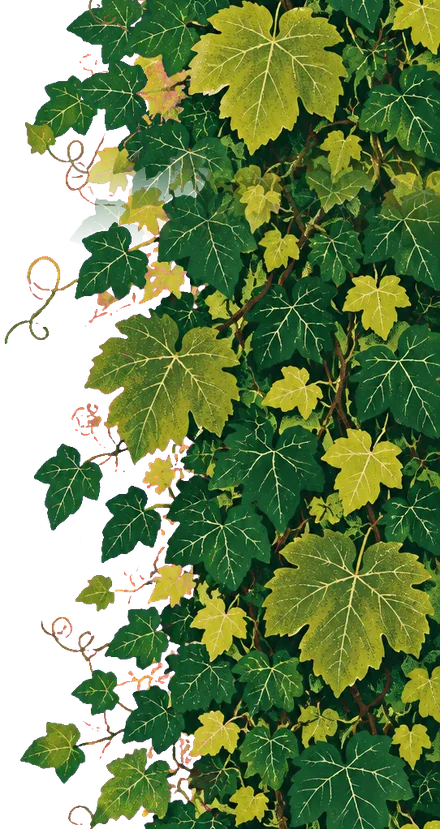
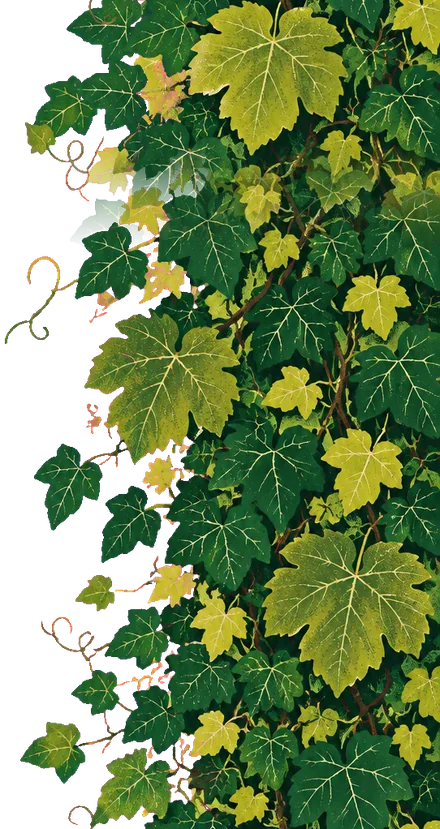
Site: açılış hemen başlar, sarmaşık kemeri ve yumuşak bitiş
- Ana sayfa: açılış, sahne ekrana girer girmez yeni (yavaş) hızında başlar;
  telefonda ilk ekran artık boş gelmiyor.
- Masaüstünde sarkan sarmaşık, sağ kenardaki şeridin tepesinden sola doğru
  uzanır; başlığın yanındaki boşluğu doldurur, şeritle tek parça durur.
- Şerit takvimin sonundan biraz ileri uzar ve yavaşça eriyerek biter.
- Telefonda sarkan sarmaşık daha dar ve sağda; başlık yazısının üstüne
  binmiyor.
- İki görsel yeniden ayıklandı: mordan kalan pembe benekler temizlendi,
  ince saplar ve kıvrımlar korundu.

diff --git a/api/mevsim.js b/api/mevsim.js
@@ -109,7 +109,7 @@ ${DARK('body.paper::before{display:none}')}
 @property --grow{syntax:'<length>';inherits:false;initial-value:0px}
 .cal{position:relative}
 .ivy{display:none}
-.ivy-top{position:absolute;top:-4px;right:-16px;width:min(82vw,380px);height:auto;pointer-events:none;z-index:0;-webkit-mask-image:linear-gradient(to bottom,#000 calc(var(--grow) - 90px),transparent var(--grow));mask-image:linear-gradient(to bottom,#000 calc(var(--grow) - 90px),transparent var(--grow));transition:--grow 1.6s cubic-bezier(.2,.7,.2,1)}
+.ivy-top{position:absolute;top:-2px;right:-16px;width:min(66vw,330px);height:auto;pointer-events:none;z-index:0;-webkit-mask-image:linear-gradient(to bottom,#000 calc(var(--grow) - 90px),transparent var(--grow));mask-image:linear-gradient(to bottom,#000 calc(var(--grow) - 90px),transparent var(--grow));transition:--grow 1.6s cubic-bezier(.2,.7,.2,1)}
 .kicker{margin:0;font-size:12.5px;font-weight:700;letter-spacing:.08em;text-transform:uppercase;color:var(--accent)}
 .cal-hero{position:relative}
 .more{display:inline-flex;align-items:center;min-height:34px;padding:0 13px;border-radius:999px;border:1px dashed var(--rule);background:transparent;color:var(--accent);font:700 14px/1 inherit;font-family:inherit;cursor:pointer}
@@ -176,8 +176,9 @@ ${DARK('.grid-h{background:var(--bg)}')}
 @media (min-width:900px){
   .cal{--namew:clamp(200px,16vw,280px)}
   .cal{--ivy-w:clamp(150px,12vw,250px);padding-right:max(0px,calc(var(--ivy-w) - (50vw - 50%) + 28px))}
-  .ivy{display:block;position:absolute;top:0;bottom:0;right:calc(50% - 50vw);width:var(--ivy-w);background:url(/img/sarmasik-dikey.webp) right top/100% auto repeat-y;pointer-events:none;z-index:0;-webkit-mask-image:linear-gradient(to bottom,#000 calc(var(--grow) - 260px),transparent var(--grow));mask-image:linear-gradient(to bottom,#000 calc(var(--grow) - 260px),transparent var(--grow));transition:--grow 1.2s cubic-bezier(.2,.7,.2,1)}
-  .ivy-top{display:none}
+  .ivy{display:block;position:absolute;top:0;bottom:-110px;right:calc(50% - 50vw);width:var(--ivy-w);background:url(/img/sarmasik-dikey.webp) right top/100% auto repeat-y;pointer-events:none;z-index:0;-webkit-mask-image:linear-gradient(to bottom,#000 calc(var(--grow) - 260px),transparent var(--grow)),linear-gradient(to top,transparent 0,#000 320px);-webkit-mask-composite:source-in;mask-image:linear-gradient(to bottom,#000 calc(var(--grow) - 260px),transparent var(--grow)),linear-gradient(to top,transparent 0,#000 320px);mask-composite:intersect;transition:--grow 1.2s cubic-bezier(.2,.7,.2,1)}
+  .ivy-top{top:0;right:calc(50% - 50vw + var(--ivy-w) * .5);width:clamp(420px,38vw,760px)}
+  .cal-hero,.months,.kinds,.show,.chart,.yr{position:relative;z-index:1}
   .cal-hero{grid-template-columns:minmax(0,5fr) minmax(0,6fr);align-items:center;gap:clamp(24px,3vw,72px);padding-top:clamp(16px,4vh,64px)}
   .cal-hero.solo{grid-template-columns:1fr}
   .months{margin:40px 0 0;padding:2px 0;flex-wrap:wrap;overflow:visible}
@@ -193,7 +194,7 @@ ${DARK('.grid-h{background:var(--bg)}')}
   .explain{font-size:16px}
   .sr i b{height:14px}
 }
-@media (max-width:899px){.cal-hero{padding-top:64px}.cal h1{font-size:68px;margin-top:12px}.lead{margin-top:12px}.months{display:grid;grid-template-columns:repeat(6,minmax(0,1fr));gap:8px;margin:36px 0 0;padding:0;overflow:visible}.mo{min-width:0;padding:0;font-size:14px}.kinds{margin-top:16px}.show{margin-top:48px;gap:36px}.chart{margin-top:72px}.yr{margin-top:64px}.grid-h .l{display:none}.sr .ico{width:26px;height:26px;font-size:15px;border-radius:8px}.sr .nm{gap:8px}}
+@media (max-width:899px){.cal-hero{padding-top:92px}.cal h1{font-size:68px;margin-top:12px}.lead{margin-top:12px}.months{display:grid;grid-template-columns:repeat(6,minmax(0,1fr));gap:8px;margin:36px 0 0;padding:0;overflow:visible}.mo{min-width:0;padding:0;font-size:14px}.kinds{margin-top:16px}.show{margin-top:48px;gap:36px}.chart{margin-top:72px}.yr{margin-top:64px}.grid-h .l{display:none}.sr .ico{width:26px;height:26px;font-size:15px;border-radius:8px}.sr .nm{gap:8px}}
 @media (hover:hover){.sr:hover{background:var(--chip)}}
 `;
 
@@ -314,8 +315,8 @@ function render(lang, host, q) {
     items: data.seasonal.map((x) => ({ n: x.name, c: x.cat, s: x.starts, e: x.ends, i: icon(x.id, x.emoji) })),
   };
   const body = '<div class="wrap">' + site.header(lang, '/mevsim?lang=' + (lang === 'tr' ? 'en' : 'tr'), 'season') +
-    '<main class="cal"><div class="ivy" aria-hidden="true"></div>' +
-    '<section class="cal-hero solo"><img class="ivy-top" src="/img/sarmasik-sarkan.webp" width="900" height="586" alt="" aria-hidden="true"><div style="position:relative;z-index:1"><p class="kicker">' + esc(t.title) + '</p>' +
+    '<main class="cal"><div class="ivy" aria-hidden="true"></div><img class="ivy-top" src="/img/sarmasik-sarkan.webp" width="1100" height="700" alt="" aria-hidden="true">' +
+    '<section class="cal-hero solo"><div style="position:relative;z-index:1"><p class="kicker">' + esc(t.title) + '</p>' +
     '<h1 id="mname">' + esc(t.months[month - 1]) + '</h1>' +
     '<p class="lead" id="count">' + esc(countTxt[month - 1].replace('{n}', visible.length)) + '</p></div></section>' +
     '<nav class="months" role="tablist" aria-label="' + esc(t.monthsLabel) + '">' + tabs + '</nav>' +

diff --git a/api/home.js b/api/home.js
@@ -340,7 +340,7 @@ const INTRO_JS = '(function(){var s=document.querySelector(".stage");if(!s)retur
   'tm.push(setTimeout(function(){put(String(at.length-1),pg)},ck));' +
   's.addEventListener("pointerdown",end);addEventListener("keydown",end);tm.push(setTimeout(function(){s.classList.remove("play");s.removeEventListener("pointerdown",end);removeEventListener("keydown",end)},ck+2300))}' +
   'if(!("IntersectionObserver" in window))return go();' +
-  'var io=new IntersectionObserver(function(es){if(es[0].isIntersecting){io.disconnect();go()}},{threshold:.6});io.observe(s.querySelector(".ap-foot")||s)})();';
+  'var io=new IntersectionObserver(function(es){if(es[0].isIntersecting){io.disconnect();go()}},{threshold:.1});io.observe(s)})();';
 
 function render(lang, host) {
   const t = T[lang];
